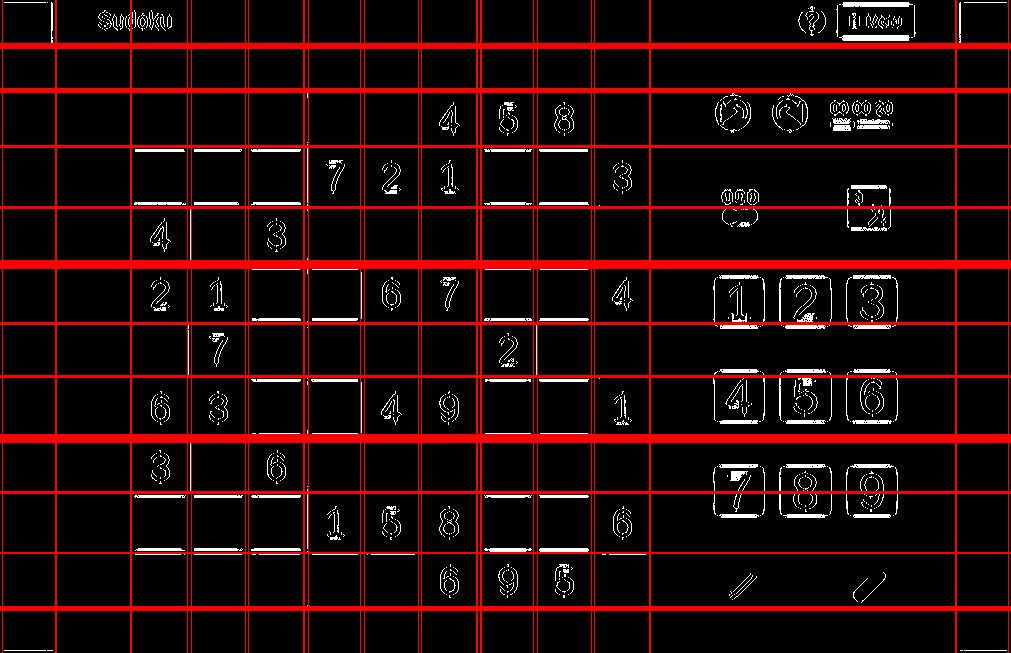
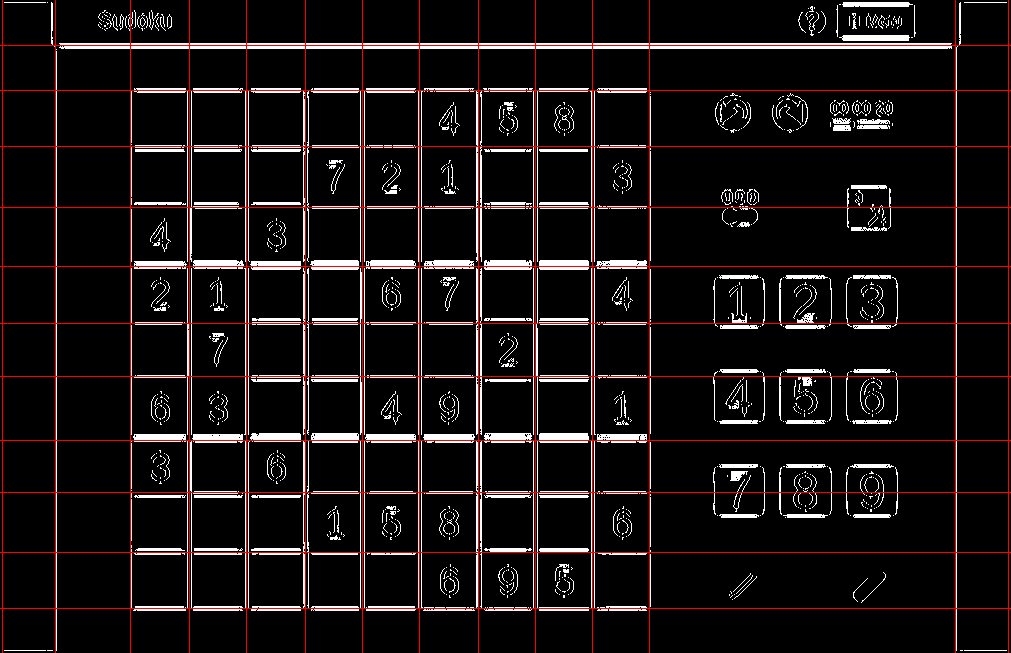
Update Grid Detection

diff --git a/src/ImageProcessing/hough-transform.c b/src/ImageProcessing/hough-transform.c
@@ -131,12 +131,31 @@ SDL_Surface* merge_lines(SDL_Surface* image, corner* abs, corner* ord, int toler
             // if 2 corner à too close, merge them
             if (ord[y].val != -1 && ord[y].next != y && ord[y].next - tolerance < y)
             {
-                // printf("y = %d, next = %d, prev = %d\n", y, ord[y].next, ord[y].prev);
+                printf("y = %d, next = %d, prev = %d\n", y, ord[y].next, ord[y].prev);
                 moy = (ord[y].next + y) / 2;
                 tmp = ord[ord[y].next].next;
 
-                ord[moy].val = ord[y].val;
+                ord[ord[y].next].val = -1;
+                ord[ord[y].next].next = ord[y].next;
+                ord[ord[y].next].prev = ord[y].next;
 
+                ord[moy].val = ord[y].val;
+                if (tmp == ord[y].next) // FIXME: Sol tmp
+                {
+                    ord[moy].next = moy;
+                }
+                else
+                    ord[moy].next = tmp;
+                ord[moy].prev = ord[y].prev;
+
+                if (y != moy)
+                {
+                    ord[y].val = -1;
+                    ord[y].next = y;
+                    ord[y].prev = y;
+                }
+
+                not_ready = 1; 
             }
         }
     }
@@ -333,9 +352,9 @@ SDL_Surface* hough_transform(SDL_Surface * image, int threshold)
     }
     ord[last_index].next = last_index;
 
-    // int tolerance = threshold/20; //FIXME: depend of the picture size
+    int tolerance = threshold/20; //FIXME: depend of the picture size
 
-    // merge_lines(image, abs, ord, tolerance, threshold);
+    merge_lines(image, abs, ord, tolerance);
 
     // printf("tabX = [\n");
     // for (int i = 0; i < image->w; i++)
